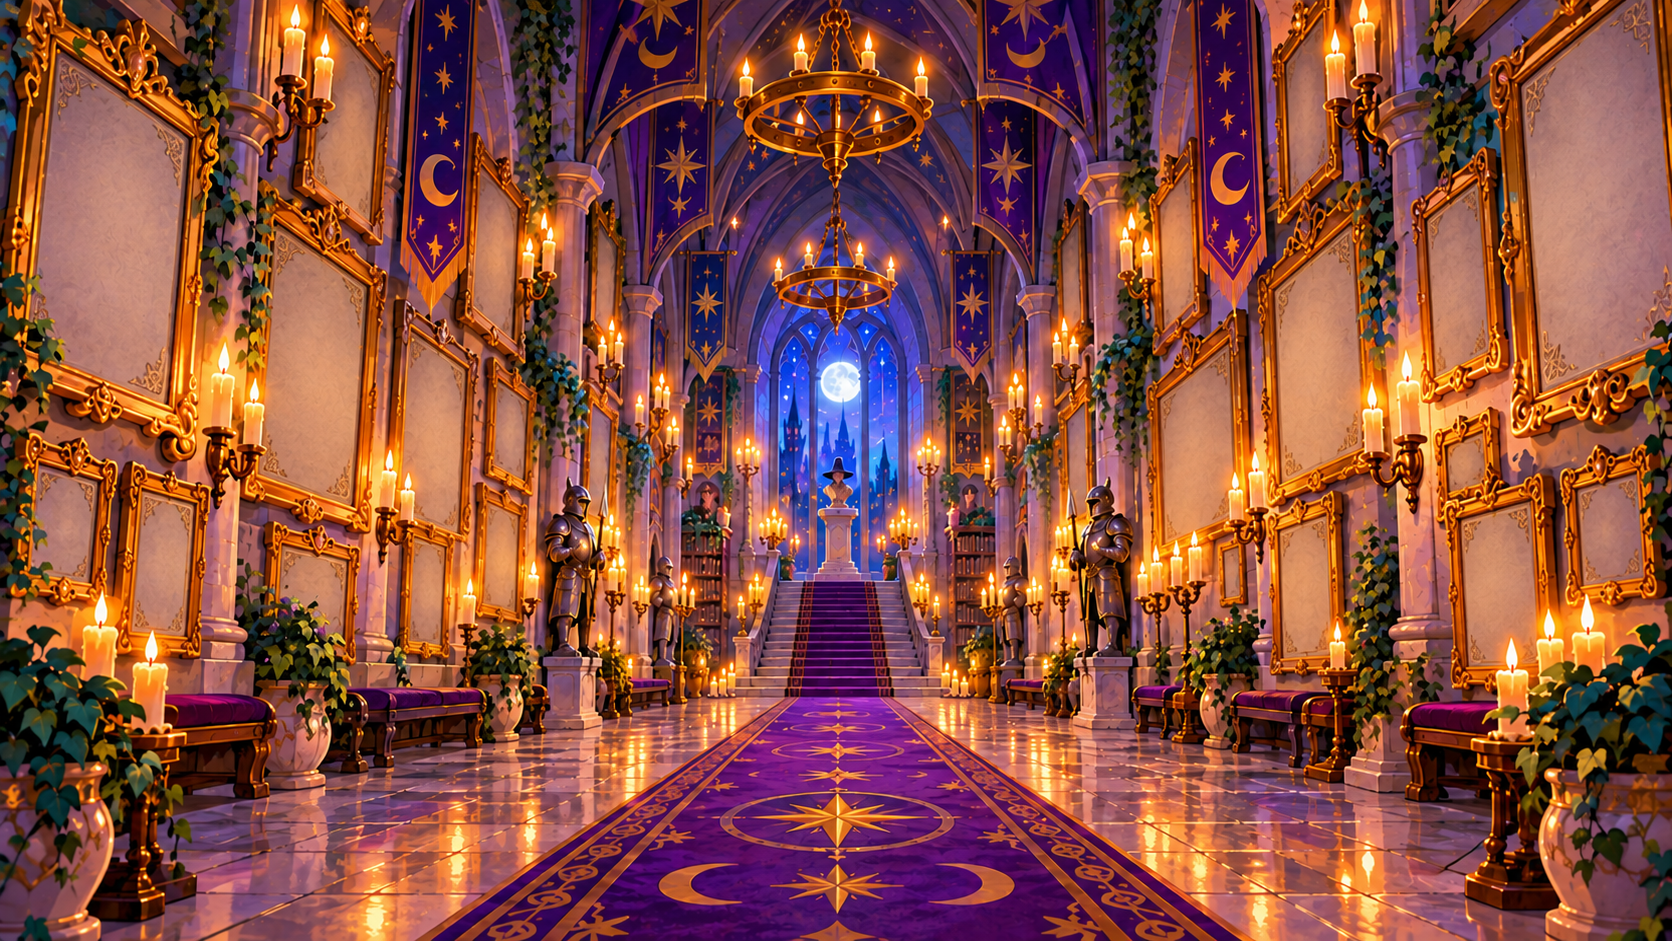
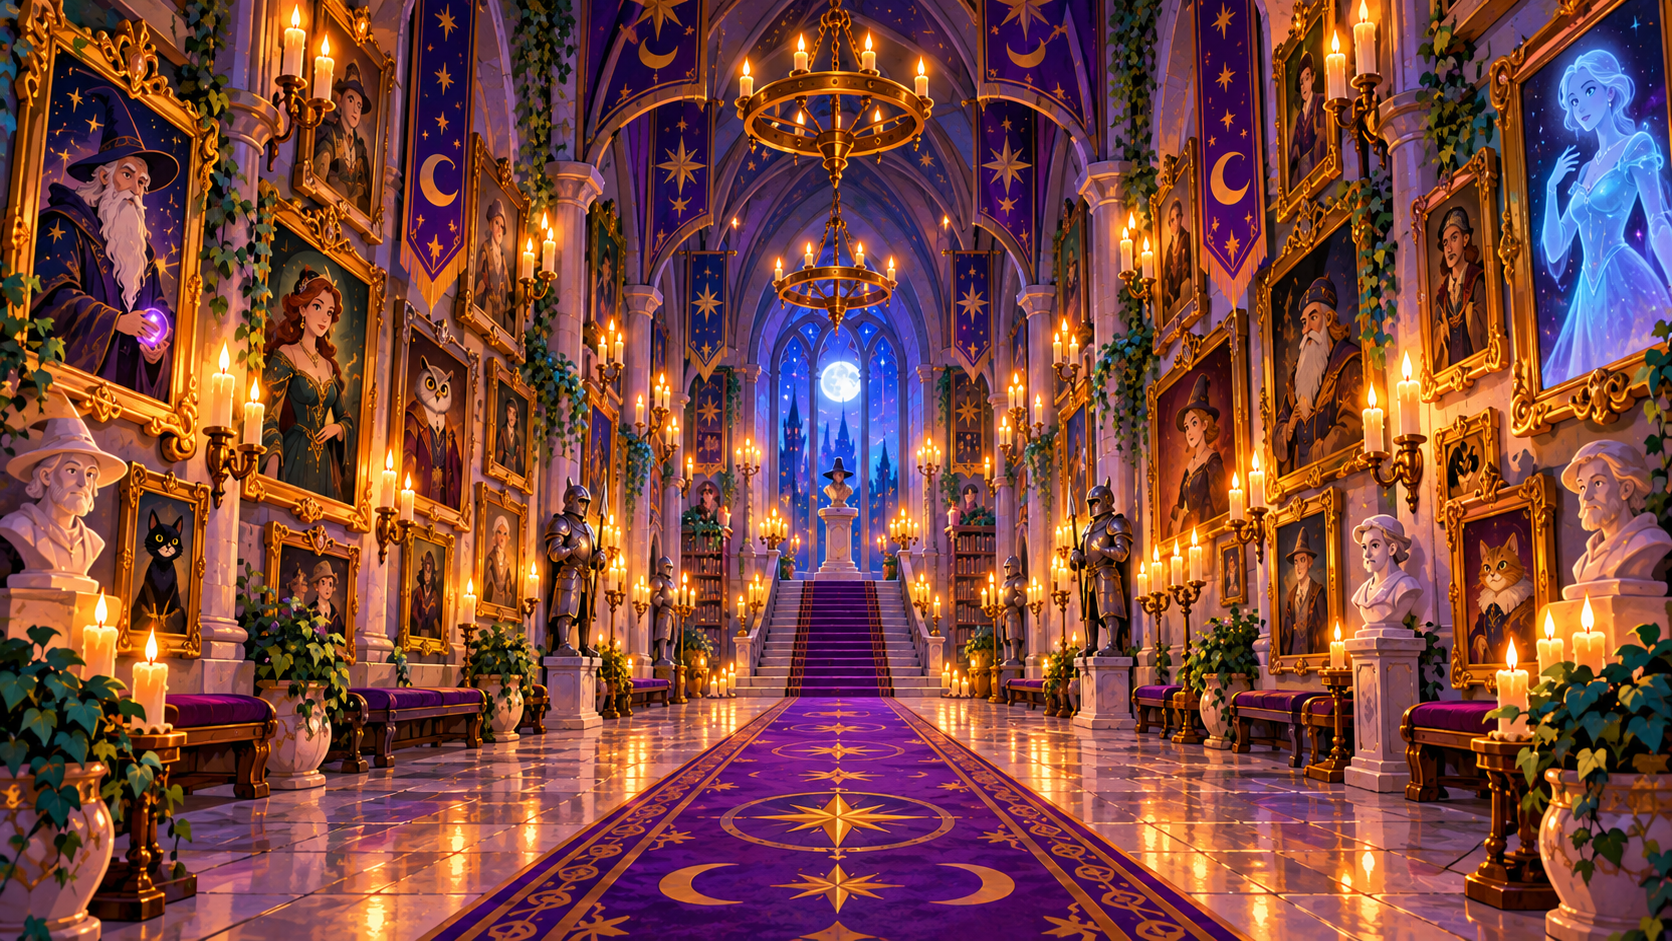
Add illustrated library gallery and clock tower rooms

diff --git a/src/RoomDecor.jsx b/src/RoomDecor.jsx
@@ -1,3 +1,3 @@
 import React from 'react';
 import {Asset,Boo,Icon,Portrait} from './art';
-export default function RoomDecor({room,step}){return <div className={`room-decor decor-${room.id}`} aria-hidden="true">{room.id==='library'?<><div className="bookshelf">{Array.from({length:20},(_,i)=><i key={i} style={{height:`${48+i%4*9}px`,background:['#60516b','#576076','#6c5c45','#3e6463'][i%4]}}/>)}</div><div className="wizard-portrait"><Asset name="wizard-portrait"><Portrait name="Wizard"/></Asset></div><Asset name="magical-book" className="floating-book"><Icon type="book"/></Asset></>:room.id==='gallery'?<>{['Ghost','Skeleton','Witch','Vampire'].map((name,i)=><div className={'wall-character wall-character-'+i} key={name}><Asset name={name.toLowerCase()+'-portrait'}><Portrait name={name}/></Asset></div>)}</>:<Asset name="clock-gears" className="clock-gears">{[0,1,2].map(i=><span className={i<step?'spinning':''} key={i}>⚙</span>)}<Icon type="clock"/></Asset>}</div>}
+export default function RoomDecor({room,step}){return <div className={`room-decor decor-${room.id}`} aria-hidden="true">{room.id==='library'?<><div className="bookshelf">{Array.from({length:20},(_,i)=><i key={i} style={{height:`${48+i%4*9}px`,background:['#60516b','#576076','#6c5c45','#3e6463'][i%4]}}/>)}</div><div className="wizard-portrait"><Asset name="wizard-portrait"><Portrait name="Wizard"/></Asset></div>{[0,1,2,3].map(i=><Asset key={i} name="magical-book" className={`floating-book floating-book-${i}`}><Icon type="book"/></Asset>)}</>:room.id==='gallery'?<>{['Ghost','Skeleton','Witch','Vampire'].map((name,i)=><div className={'wall-character wall-character-'+i} key={name}><Asset name={name.toLowerCase()+'-portrait'}><Portrait name={name}/></Asset></div>)}</>:<Asset name="clock-gears" className="clock-gears">{[0,1,2].map(i=><span className={i<step?'spinning':''} key={i}>⚙</span>)}<Icon type="clock"/></Asset>}</div>}

diff --git a/src/illustrated.css b/src/illustrated.css
@@ -33,7 +33,13 @@
 .scene-hall .speech{margin-top:58px;padding:18px 24px;border:1px solid #d2bc8266;border-radius:12px;background:#0c1a30ed;font-size:17px}
 .scene-hall .gate-link{background:#0b192fea;border-color:#cab37988;bottom:110px;font-size:17px}
 .illustrated footer{background:#091426f5;border-top:1px solid #c8aa6c55;color:#c7c9d0}
-.illustrated .floating-book{width:220px;height:220px;top:680px;right:65px;object-fit:contain}
+.illustrated .floating-book{position:absolute;width:180px;height:150px;object-fit:contain;animation:book-drift 8s ease-in-out infinite;filter:drop-shadow(0 0 12px #ffd67b99)}
+.illustrated .floating-book-0{top:265px;left:510px;transform:rotate(-14deg)}
+.illustrated .floating-book-1{top:300px;left:930px;transform:rotate(12deg);animation-delay:-2s}
+.illustrated .floating-book-2{top:230px;right:470px;transform:rotate(8deg);animation-delay:-4s}
+.illustrated .floating-book-3{top:540px;right:215px;transform:rotate(-18deg);animation-delay:-6s}
+@keyframes book-drift{0%,100%{translate:0 0 rotate(0deg)}50%{translate:26px -22px rotate(8deg)}}
+.scene-library .scene-background,.scene-tower .scene-background,.scene-gallery .scene-background{filter:saturate(1.08) brightness(.78)}
 .illustrated .key-reveal{top:345px}.illustrated .reward-key{width:340px;margin:10px auto}.illustrated .reward-key .key-icon{width:340px;height:340px;filter:none}
 .illustrated .key-reveal h2{font-size:46px}.illustrated .key-reveal p{margin:10px 0 20px}
 .scene-gates .room-heading{top:155px;left:520px;width:880px;padding:14px 20px;background:#08172ae8;border:1px solid #cfb37655;border-radius:12px}

diff --git a/tests/browser/room-art.spec.js b/tests/browser/room-art.spec.js
@@ -1,0 +1,13 @@
+import {test,expect} from '@playwright/test';
+test('all three room backgrounds and library flying books load',async({page})=>{
+ await page.goto('/');
+ for(const [name,bg] of [['Forbidden Library','forbidden-library-background.png'],['Gallery of Shadows','gallery-background.png'],['Clock Tower','clock-tower-background.png']]){
+  await page.getByRole('button',{name:`Enter ${name}`,exact:true}).click();
+  await expect(page.locator('.scene-background')).toHaveAttribute('src',new RegExp(bg));
+  await expect(page.locator('.room-heading h1')).toContainText(name);
+  await page.getByRole('button',{name:/BACK TO HALL/}).click();
+ }
+ await page.getByRole('button',{name:'Enter Forbidden Library',exact:true}).click();
+ await expect(page.locator('.floating-book')).toHaveCount(4);
+ await expect.poll(()=>page.locator('.floating-book[src]').evaluateAll(xs=>xs.filter(x=>x.complete&&x.naturalWidth).length)).toBe(4);
+});
